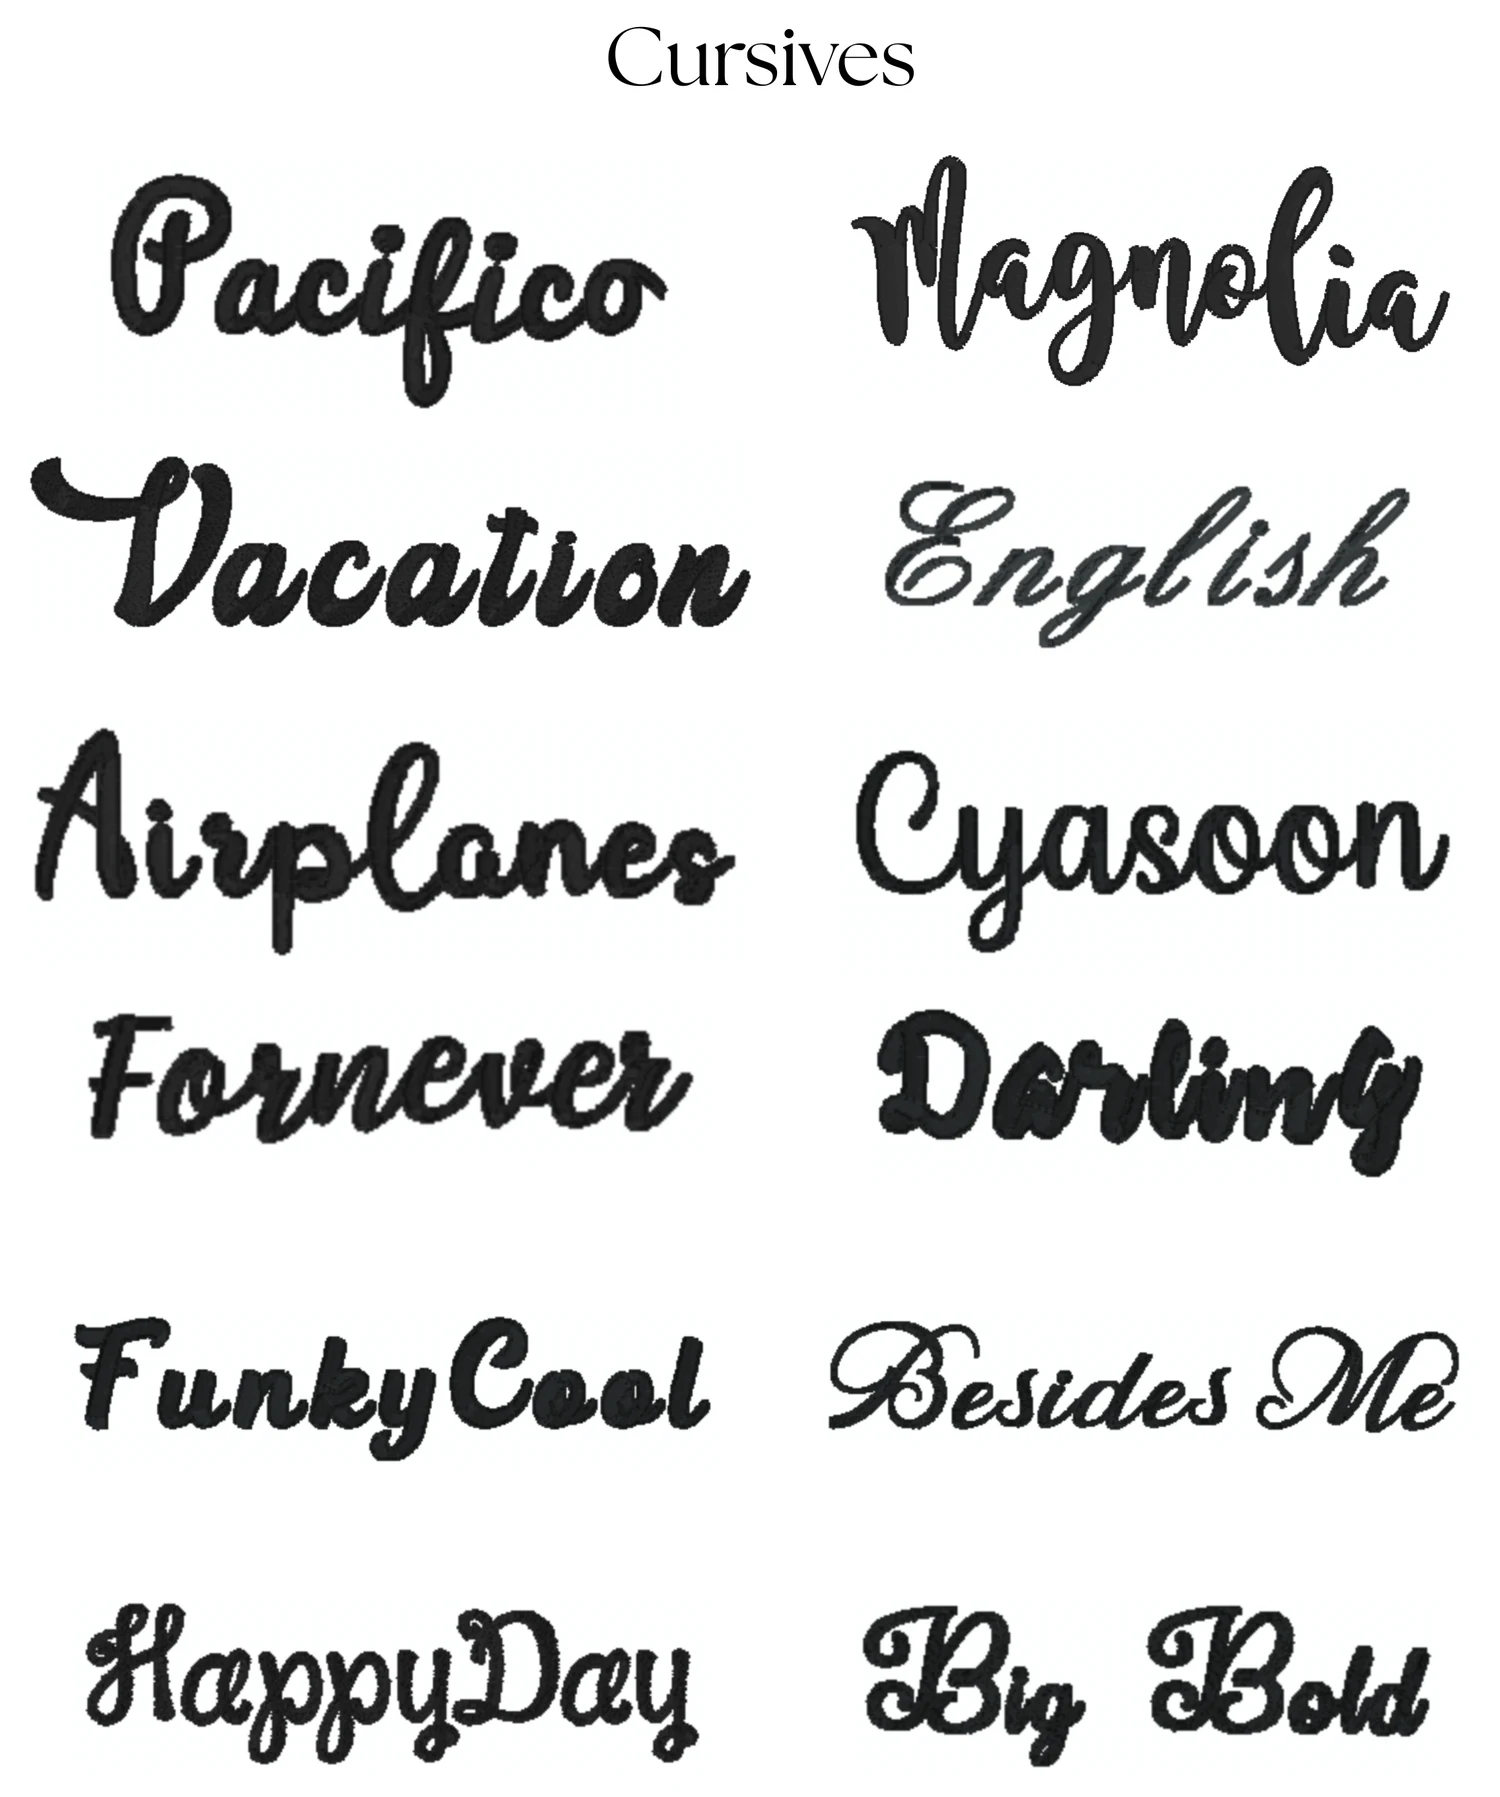
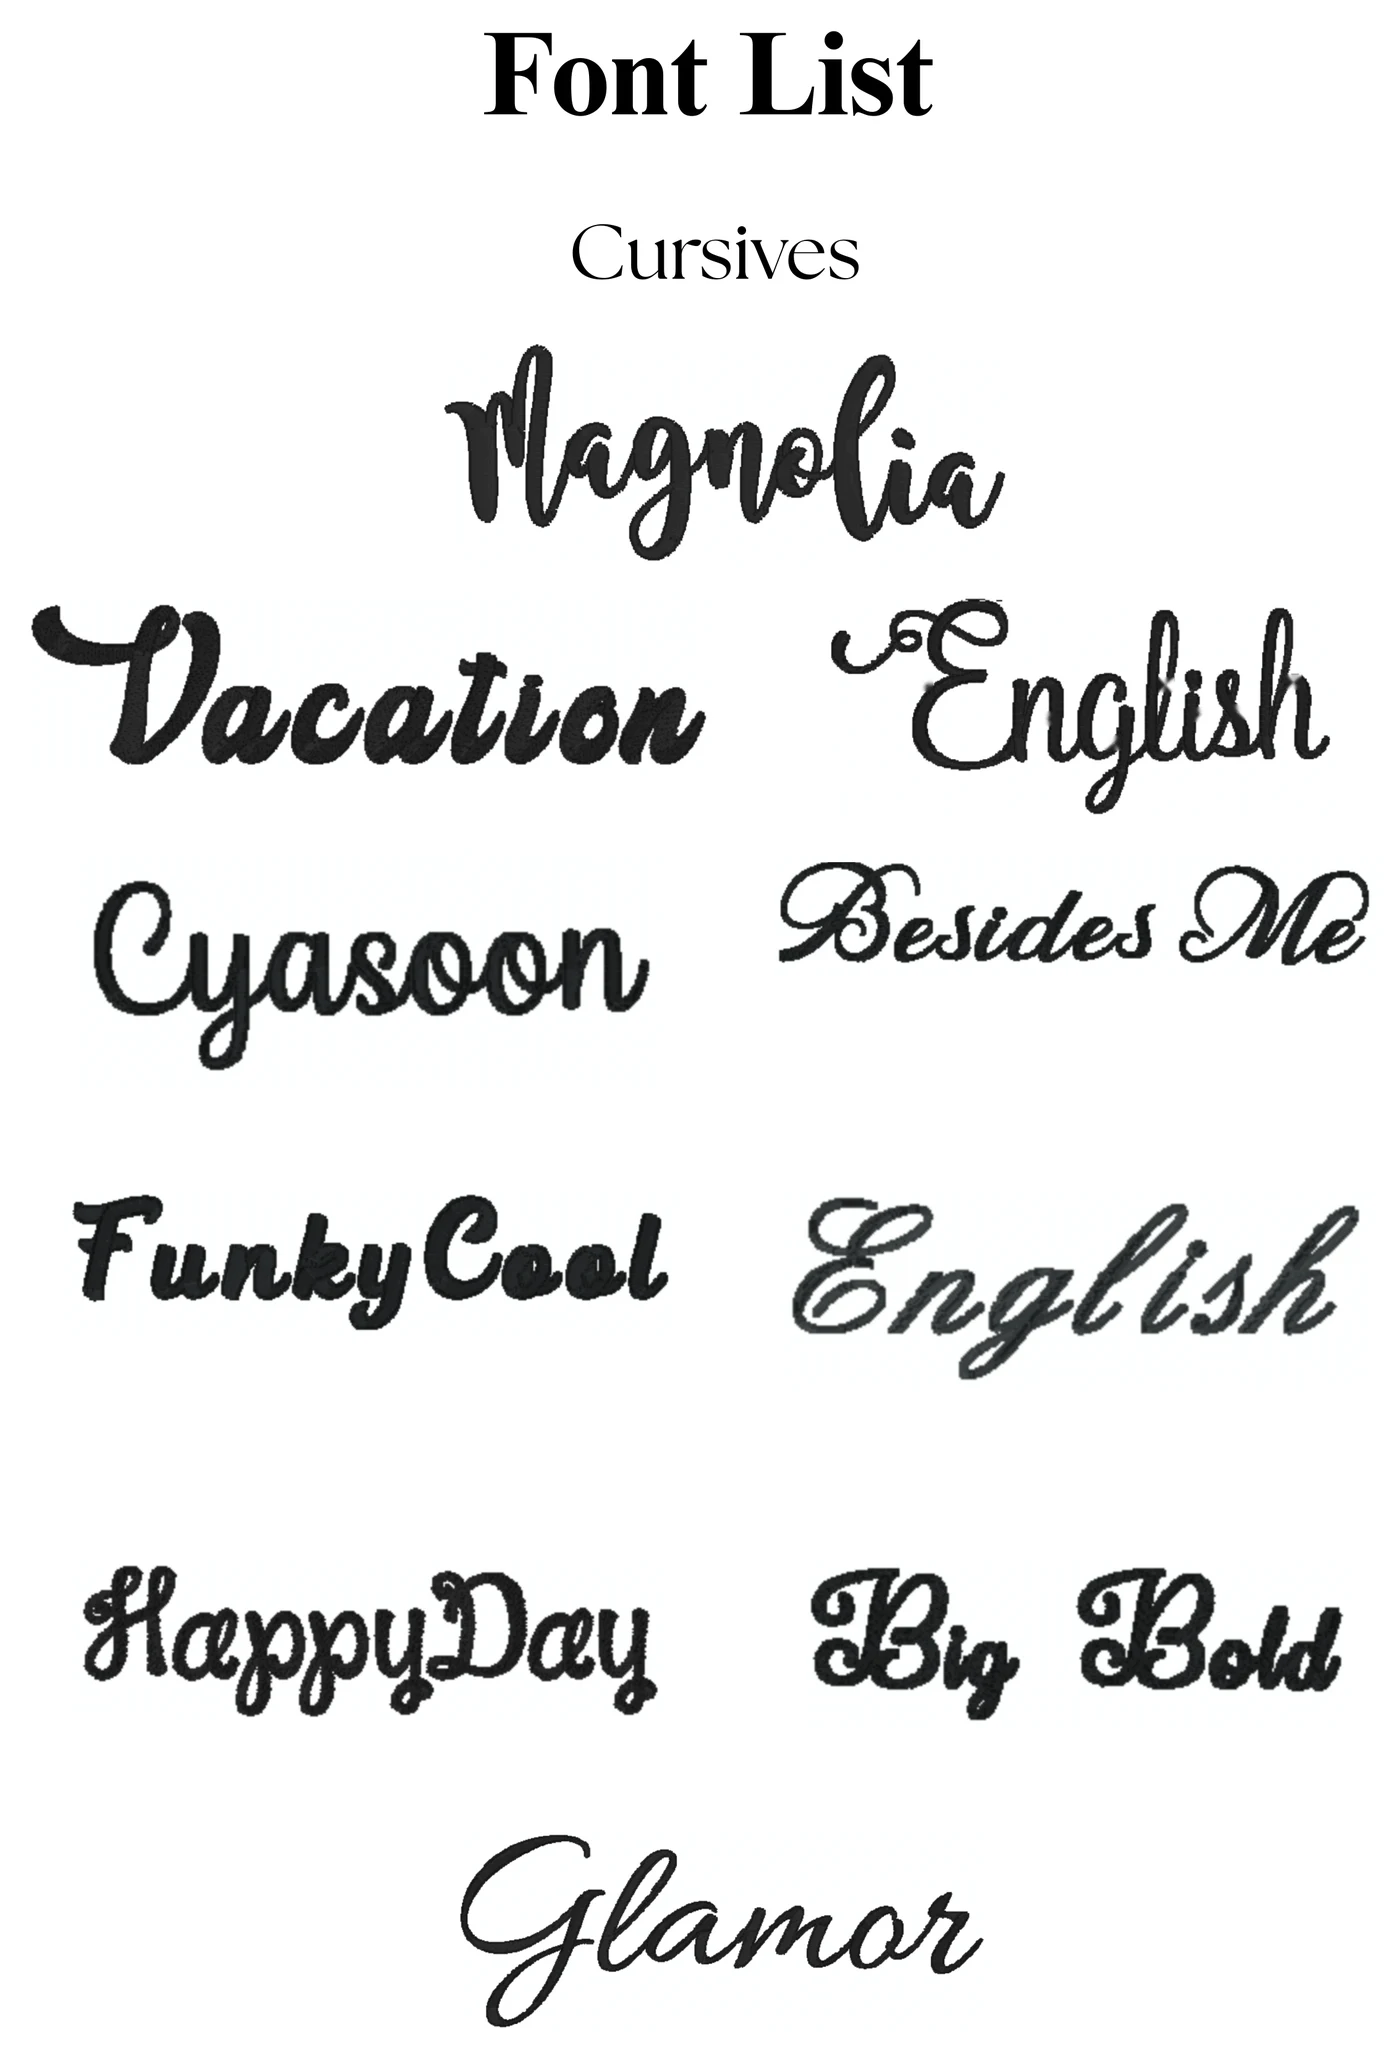
Trim the font list and add a live font preview to the picker
Customers said the old font list (~82 fonts) was too long to browse
comfortably. Rebuilt it from the new, shorter list:

- src/data/fonts.ts: 55 fonts across Cursives (10), Scripts (32), and
  Monograms (13), replacing the old ~82-font list.
- Fixed a naming collision the source list itself had: two visually
  different cursive fonts were both named "English". Kept both (they're
  genuinely different styles) and labeled the second "English II" so
  orders can't be ambiguous about which one a customer picked.
- Cleaned up the one font sample that had editing-tool artifacts baked
  into it (a dashed selection outline and green control-point handles
  on top of the cursive "English" sample) - removed algorithmically
  (color/shape-based masking, not just cropped around) so the glyph
  itself is untouched.
- Re-cropped every font into its own small sample image
  (public/fonts-guide/samples/*.webp, 55 files) and wired a live
  preview into FontThreadFields.astro: picking a font now shows a
  small image of it next to the dropdown, the same way picking a
  thread color already shows a color swatch.
- Rebuilt the category montage images shown in the homepage "Browse
  our fonts" gallery (public/fonts-guide/*.webp) from the new list,
  including two monogram samples whose captions ("Fish Tail Mono",
  "SSP Heart") were missing from the source PDF - added them to match
  the style of every other caption in that image.
[…]

diff --git a/src/data/fonts.ts b/src/data/fonts.ts
@@ -1,17 +1,29 @@
 // Embroidery font options customers can choose from for custom orders and
 // customizable ready-made products (e.g. the monogrammed cap).
 //
-// Source: the shop's embroidery machine font library. Images of each
-// category live in /public/fonts-guide and are shown on the home page's
-// "Browse Our Fonts" section so customers can see what each name looks
-// like before picking it from a dropdown.
+// Source: the shop's embroidery machine font library. Trimmed down (Aug 2026)
+// from the original, much longer list after customer feedback that it was
+// too long to browse comfortably.
+//
+// Category images (in /public/fonts-guide) are shown on the home page's
+// "Browse Our Fonts" section so customers can see what a whole category
+// looks like at once. Each individual font also has its own small sample
+// image (in /public/fonts-guide/samples) shown next to the Font Style
+// dropdown when it's selected, the same way a thread color's swatch shows
+// up next to the Thread Color dropdown.
+
+export interface FontOption {
+	name: string;
+	/** Small sample image shown next to the dropdown when this font is selected. */
+	image: string;
+}
 
 export interface FontCategory {
 	name: string;
 	description: string;
 	/** Font sample images for this category, shown in the Browse Our Fonts gallery. */
 	images: string[];
-	fonts: string[];
+	fonts: FontOption[];
 	/** Fonts in this category that support a second (accent) thread color. */
 	twoColorFonts?: string[];
 }
@@ -20,105 +32,77 @@ export const FONT_CATEGORIES: FontCategory[] = [
 	{
 		name: "Cursives",
 		description: "Flowing, connected script styles — great for names and short words.",
-		images: ["/fonts-guide/cursives-1.webp", "/fonts-guide/cursives-2.webp"],
+		images: ["/fonts-guide/cursives-1.webp"],
 		fonts: [
-			"Pacifico",
-			"Magnolia",
-			"Vacation",
-			"English",
-			"Airplanes",
-			"Cyasoon",
-			"Fornever",
-			"Darling",
-			"FunkyCool",
-			"Besides Me",
-			"HappyDay",
-			"Big Bold",
-			"Fenden",
-			"Exact Lee",
-			"Advanced",
-			"Glamor",
+			{ name: "Magnolia", image: "/fonts-guide/samples/magnolia.webp" },
+			{ name: "Vacation", image: "/fonts-guide/samples/vacation.webp" },
+			{ name: "English", image: "/fonts-guide/samples/english.webp" },
+			{ name: "Cyasoon", image: "/fonts-guide/samples/cyasoon.webp" },
+			{ name: "Besides Me", image: "/fonts-guide/samples/besides-me.webp" },
+			{ name: "FunkyCool", image: "/fonts-guide/samples/funkycool.webp" },
+			{ name: "English II", image: "/fonts-guide/samples/english-ii.webp" },
+			{ name: "HappyDay", image: "/fonts-guide/samples/happyday.webp" },
+			{ name: "Big Bold", image: "/fonts-guide/samples/big-bold.webp" },
+			{ name: "Glamor", image: "/fonts-guide/samples/glamor.webp" },
 		],
 	},
 	{
 		name: "Scripts",
 		description: "Block, novelty, and display lettering — bold and easy to read from a distance.",
-		images: ["/fonts-guide/scripts-1.webp", "/fonts-guide/scripts-2.webp", "/fonts-guide/scripts-3.webp", "/fonts-guide/scripts-4.webp"],
+		images: ["/fonts-guide/scripts-1.webp", "/fonts-guide/scripts-2.webp", "/fonts-guide/scripts-3.webp"],
 		fonts: [
-			"RIO",
-			"Caryonette",
-			"AMERICA",
-			"GOLD PLATED",
-			"Zas Arial",
-			"KISS",
-			"Garamond",
-			"Retro",
-			"MUE ATHLETIC",
-			"Georgia",
-			"A Calling",
-			"COLLEGE",
-			"FISHTAIL",
-			"Cartoon",
-			"Jokster",
-			"Dallaser",
-			"LINES",
-			"Cupshoy",
-			"Do Not Enter",
-			"Dingy",
-			"Falling S",
-			"JEOPARDY",
-			"Colossal",
-			"Executive",
-			"Basketball",
-			"MagicLand",
-			"Haunting",
-			"It Happens",
-			"COWBOY",
-			"Buzzlova",
-			"Adore",
-			"Times New",
-			"BILLY KID",
-			"Blue plate",
-			"Bobbin",
-			"Behind",
-			"Braggin",
-			"Chowder",
-			"ANGEL",
-			"dark poet",
-			"Family",
-			"FUNNYMAN",
-			"Late Night",
-			"Apple Cobbler",
-			"Old English",
-			"Comic",
-			"Dream",
-			"Experiment",
-			"fisherman",
-			"HORSEHAND",
-			"Grooves",
-			"Animated",
-			"Blink",
+			{ name: "RIO", image: "/fonts-guide/samples/rio.webp" },
+			{ name: "AMERICA", image: "/fonts-guide/samples/america.webp" },
+			{ name: "GOLD PLATED", image: "/fonts-guide/samples/gold-plated.webp" },
+			{ name: "KISS", image: "/fonts-guide/samples/kiss.webp" },
+			{ name: "Retro", image: "/fonts-guide/samples/retro.webp" },
+			{ name: "MUE ATHLETIC", image: "/fonts-guide/samples/mue-athletic.webp" },
+			{ name: "COLLEGE", image: "/fonts-guide/samples/college.webp" },
+			{ name: "A Calling", image: "/fonts-guide/samples/a-calling.webp" },
+			{ name: "Cartoon", image: "/fonts-guide/samples/cartoon.webp" },
+			{ name: "FISHTAIL", image: "/fonts-guide/samples/fishtail.webp" },
+			{ name: "Jokster", image: "/fonts-guide/samples/jokster.webp" },
+			{ name: "LINES", image: "/fonts-guide/samples/lines.webp" },
+			{ name: "Dingy", image: "/fonts-guide/samples/dingy.webp" },
+			{ name: "Falling S", image: "/fonts-guide/samples/falling-s.webp" },
+			{ name: "JEOPARDY", image: "/fonts-guide/samples/jeopardy.webp" },
+			{ name: "Executive", image: "/fonts-guide/samples/executive.webp" },
+			{ name: "MagicLand", image: "/fonts-guide/samples/magicland.webp" },
+			{ name: "COWBOY", image: "/fonts-guide/samples/cowboy.webp" },
+			{ name: "Buzzlova", image: "/fonts-guide/samples/buzzlova.webp" },
+			{ name: "Times New", image: "/fonts-guide/samples/times-new.webp" },
+			{ name: "Blue plate", image: "/fonts-guide/samples/blue-plate.webp" },
+			{ name: "Bobbin", image: "/fonts-guide/samples/bobbin.webp" },
+			{ name: "Behind", image: "/fonts-guide/samples/behind.webp" },
+			{ name: "Chowder", image: "/fonts-guide/samples/chowder.webp" },
+			{ name: "ANGEL", image: "/fonts-guide/samples/angel.webp" },
+			{ name: "FUNNYMAN", image: "/fonts-guide/samples/funnyman.webp" },
+			{ name: "Late Night", image: "/fonts-guide/samples/late-night.webp" },
+			{ name: "Apple Cobbler", image: "/fonts-guide/samples/apple-cobbler.webp" },
+			{ name: "Old English", image: "/fonts-guide/samples/old-english.webp" },
+			{ name: "Experiment", image: "/fonts-guide/samples/experiment.webp" },
+			{ name: "Animated", image: "/fonts-guide/samples/animated.webp" },
+			{ name: "Blink", image: "/fonts-guide/samples/blink.webp" },
 		],
 	},
 	{
 		name: "Monograms",
 		description: "Initials-based layouts for a classic monogrammed look.",
-		images: ["/fonts-guide/monograms-1.webp", "/fonts-guide/monograms-2.webp", "/fonts-guide/monograms-3.webp"],
+		images: ["/fonts-guide/monograms-1.webp", "/fonts-guide/monograms-2.webp"],
 		fonts: [
-			"Twilight Fishtail",
-			"Twilight Stacked",
-			"TwilightVine",
-			"Twilight Formal",
-			"Twilight Wreath",
-			"Twilight Stamp",
-			"Twilight Diamond",
-			"Twilight Seal",
-			"Circle Satin",
-			"Empire Satin",
-			"Fancy Satin Bean",
-			"Fancy Satin Mono",
-			"Fish Tail Mono",
-			"SSP Heart",
+			{ name: "Twilight Fishtail", image: "/fonts-guide/samples/twilight-fishtail.webp" },
+			{ name: "Twilight Stacked", image: "/fonts-guide/samples/twilight-stacked.webp" },
+			{ name: "TwilightVine", image: "/fonts-guide/samples/twilightvine.webp" },
+			{ name: "Twilight Formal", image: "/fonts-guide/samples/twilight-formal.webp" },
+			{ name: "Twilight Wreath", image: "/fonts-guide/samples/twilight-wreath.webp" },
+			{ name: "Twilight Stamp", image: "/fonts-guide/samples/twilight-stamp.webp" },
+			{ name: "Twilight Diamond", image: "/fonts-guide/samples/twilight-diamond.webp" },
+			{ name: "Twilight Seal", image: "/fonts-guide/samples/twilight-seal.webp" },
+			{ name: "Circle Satin", image: "/fonts-guide/samples/circle-satin.webp" },
+			{ name: "Empire Satin", image: "/fonts-guide/samples/empire-satin.webp" },
+			{ name: "Fancy Satin Bean", image: "/fonts-guide/samples/fancy-satin-bean.webp" },
+			{ name: "Fish Tail Mono", image: "/fonts-guide/samples/fish-tail-mono.webp" },
+			{ name: "SSP Heart", image: "/fonts-guide/samples/ssp-heart.webp" },
 		],
 		twoColorFonts: ["Twilight Wreath", "Twilight Seal"],
 	},
